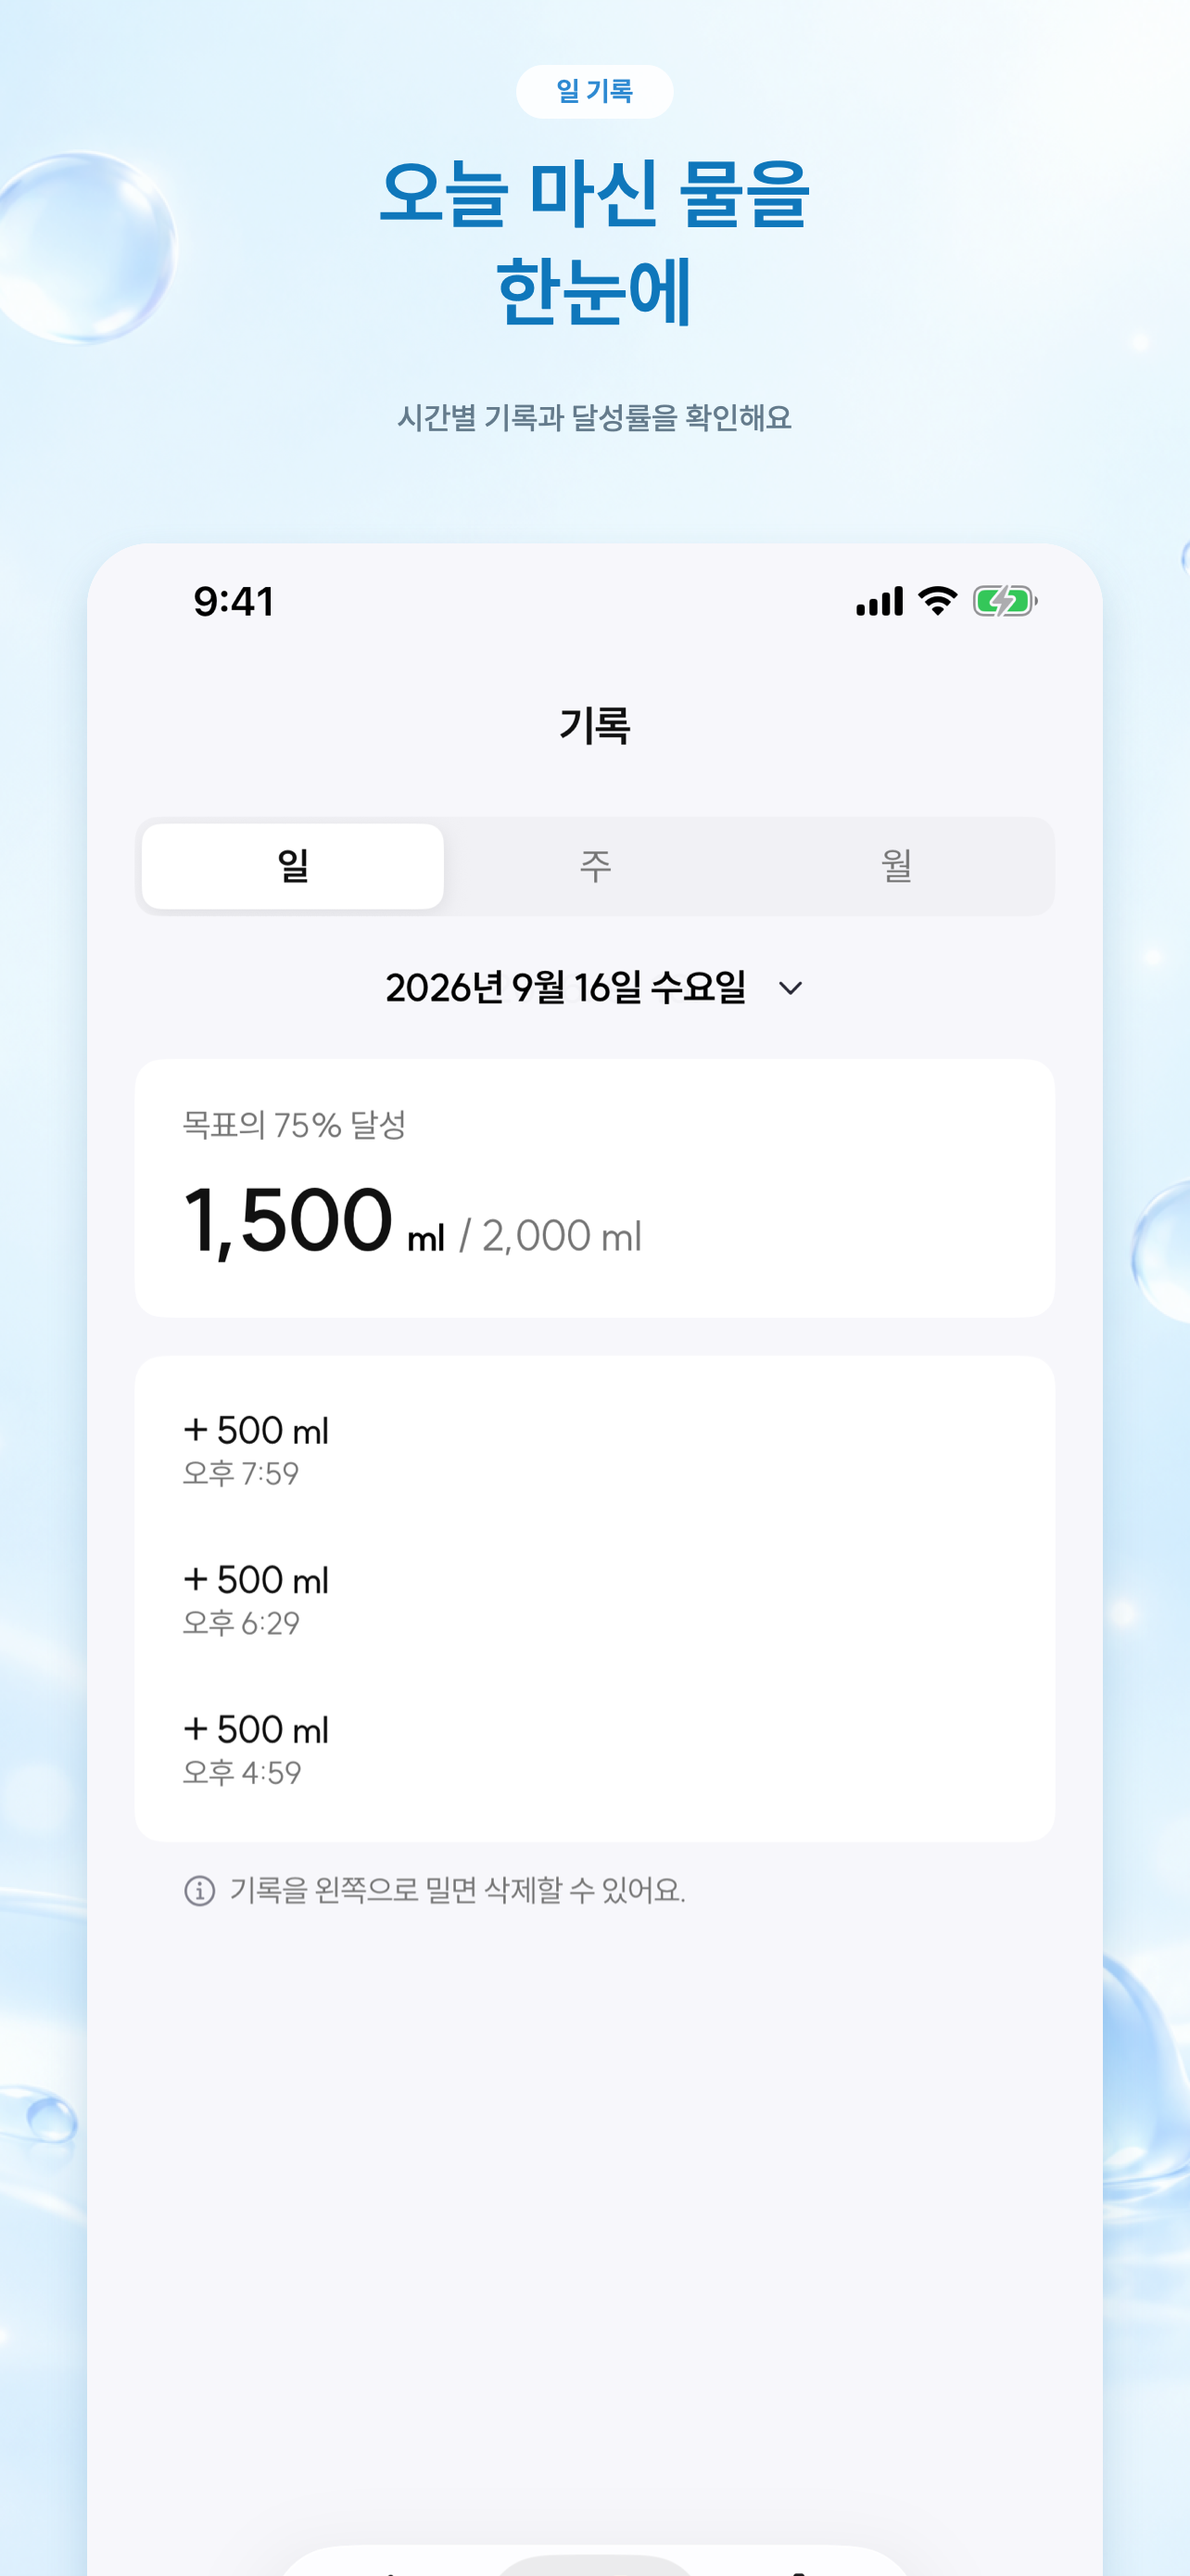
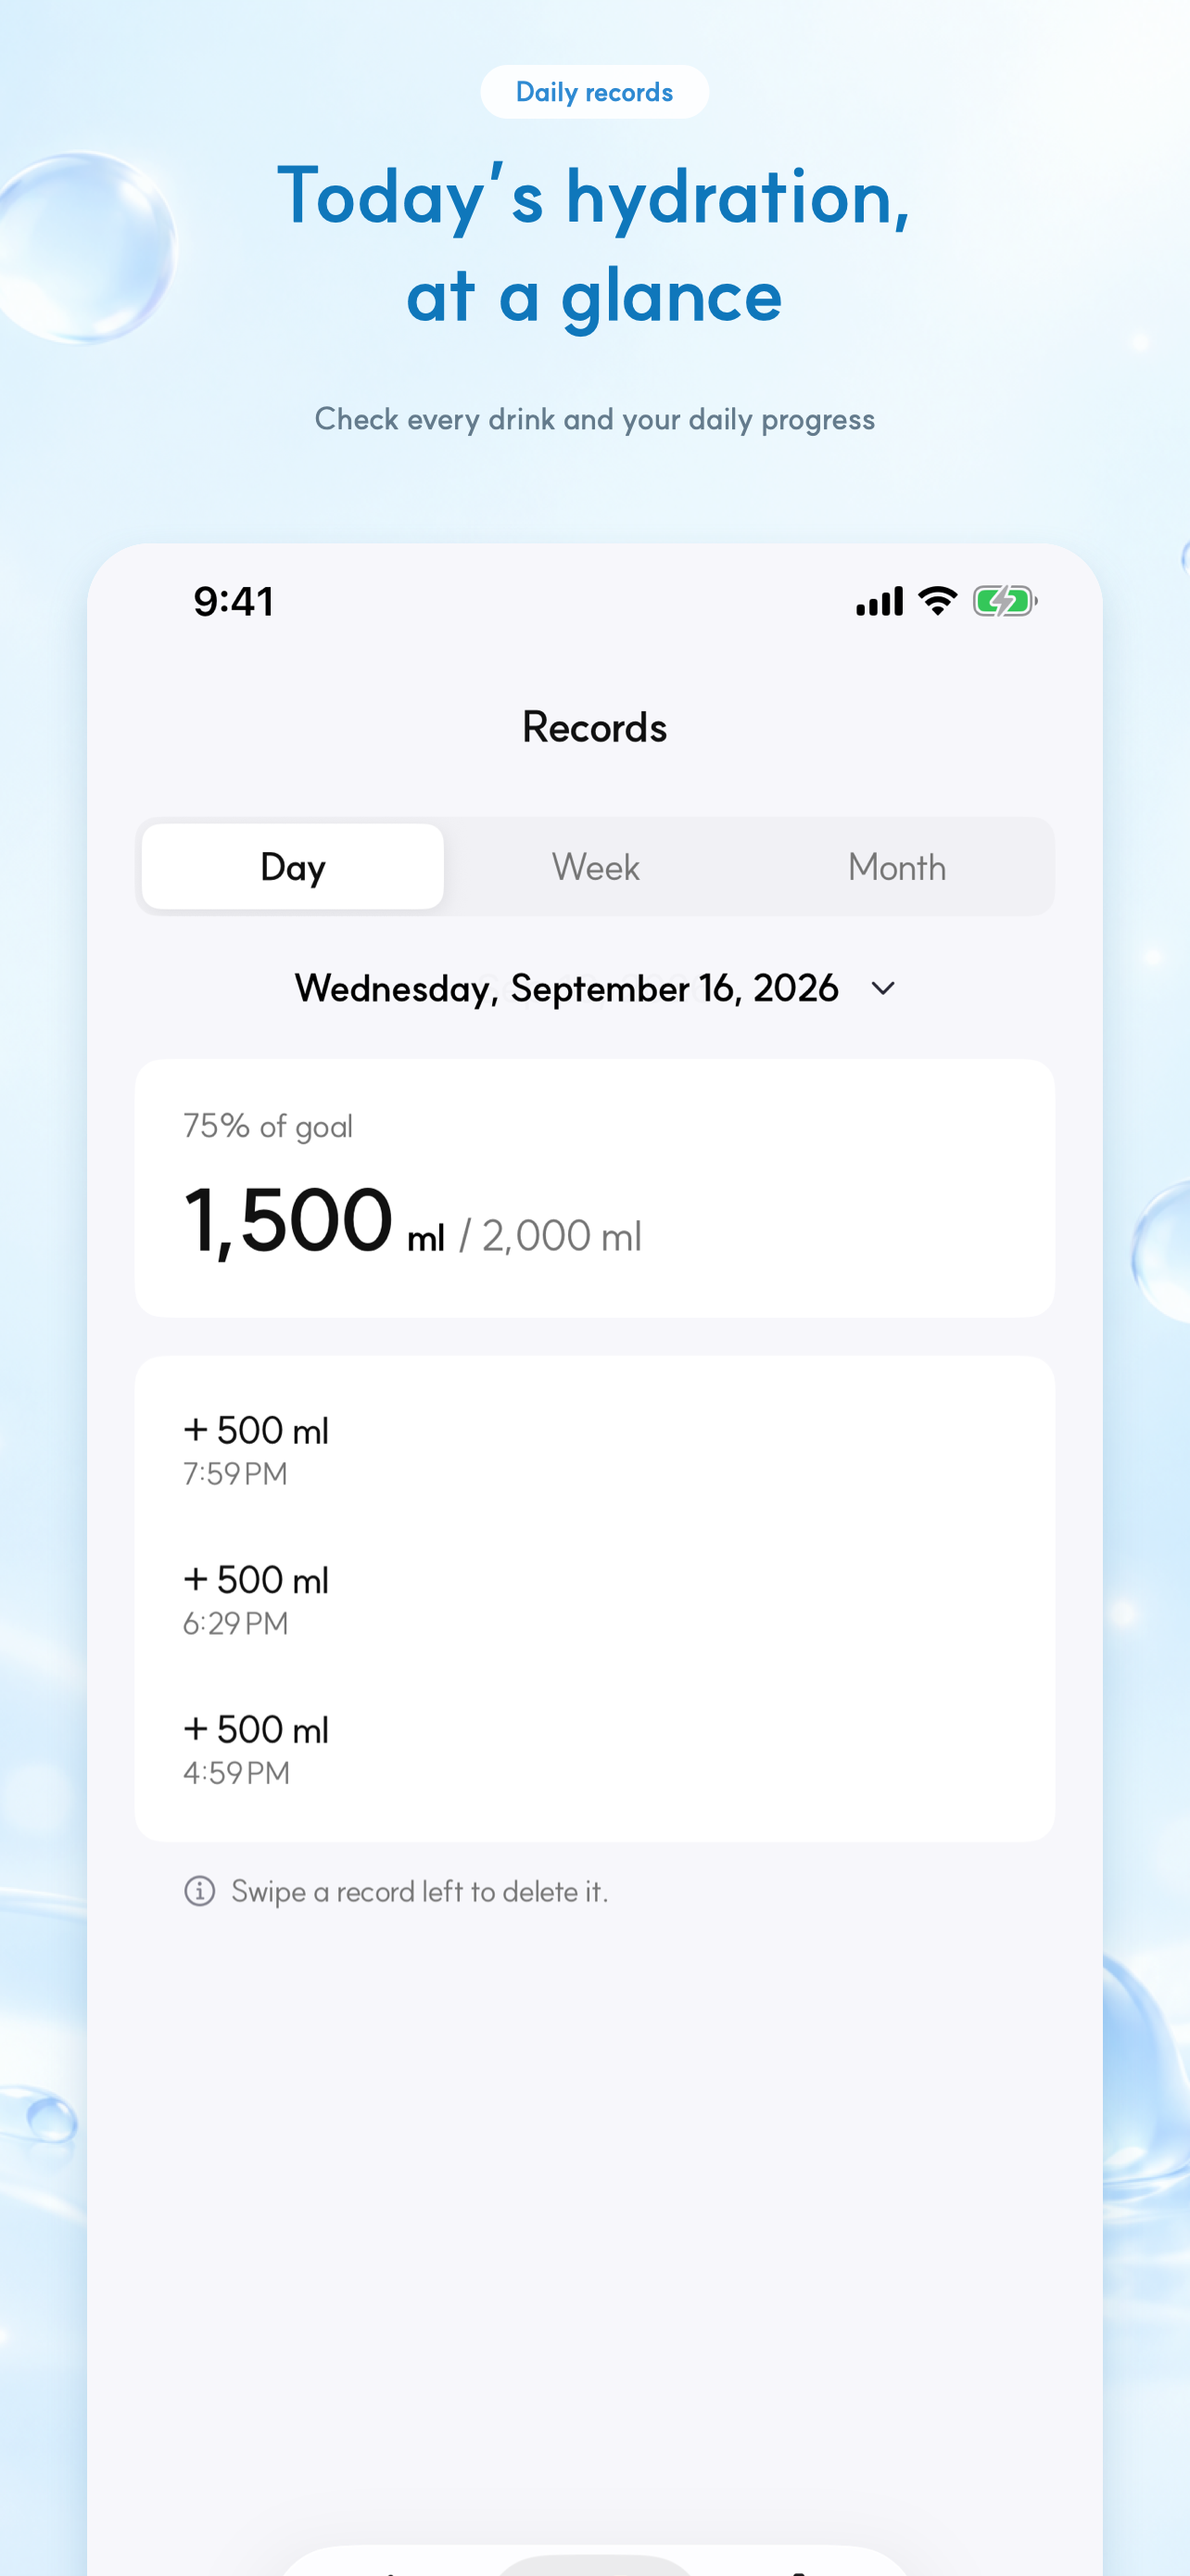
fix: publish Water Jelly page in English

diff --git a/waterjelly/index.html b/waterjelly/index.html
@@ -1,19 +1,19 @@
 <!DOCTYPE html>
-<html lang="ko">
+<html lang="en">
 <head>
   <meta charset="UTF-8">
   <meta name="viewport" content="width=device-width, initial-scale=1.0">
-  <meta name="description" content="워터젤리는 귀여운 젤리와 함께 오늘 마신 물을 빠르게 기록하고, 일·주·월 단위로 돌아보는 iPhone 물 기록 앱입니다.">
-  <meta name="keywords" content="워터젤리, 물마시기, 물기록, 수분기록, 물알림, 건강습관, 물 위젯">
+  <meta name="description" content="Water Jelly is an iPhone water tracker that helps you log each drink in a tap, review daily, weekly, and monthly trends, and build a gentle hydration habit.">
+  <meta name="keywords" content="Water Jelly, water tracker, hydration tracker, water reminder, drink water, daily water, water widget">
   <meta name="theme-color" content="#EAF7FF">
   <meta property="og:type" content="website">
-  <meta property="og:title" content="워터젤리 — 젤리와 가볍게 채우는 오늘의 물">
-  <meta property="og:description" content="빠른 기록, 부드러운 응원, 일·주·월 기록으로 내 수분 습관을 부담 없이 이어가세요.">
+  <meta property="og:title" content="Water Jelly — A gentle water habit with a little jelly">
+  <meta property="og:description" content="Quick entries, gentle encouragement, and daily, weekly, and monthly records for a hydration routine that fits your day.">
   <meta property="og:url" content="https://lucidmaj7.github.io/waterjelly/">
   <meta name="twitter:card" content="summary">
-  <meta name="twitter:title" content="워터젤리 — 젤리와 가볍게 채우는 오늘의 물">
-  <meta name="twitter:description" content="빠른 기록, 부드러운 응원, 일·주·월 기록으로 내 수분 습관을 부담 없이 이어가세요.">
-  <title>워터젤리 — 물 마시기 기록 앱</title>
+  <meta name="twitter:title" content="Water Jelly — A gentle water habit with a little jelly">
+  <meta name="twitter:description" content="Quick entries, gentle encouragement, and daily, weekly, and monthly records for a hydration routine that fits your day.">
+  <title>Water Jelly — Water Tracker for iPhone</title>
   <link rel="canonical" href="https://lucidmaj7.github.io/waterjelly/">
   <link rel="stylesheet" href="../css/base.css">
   <link rel="stylesheet" href="../css/components.css">
@@ -23,13 +23,13 @@
 <body class="waterjelly-page">
 
   <header>
-    <nav class="site-nav waterjelly-nav" aria-label="주요 탐색">
+    <nav class="site-nav waterjelly-nav" aria-label="Main navigation">
       <div class="site-nav__inner">
         <a href="../index.html" class="site-nav__back">lucidmaj7</a>
         <div class="waterjelly-nav__right">
-          <a href="#features" class="site-nav__link">기능</a>
-          <a href="#screens" class="site-nav__link">앱 화면</a>
-          <span class="site-nav__app-name">워터젤리</span>
+          <a href="#features" class="site-nav__link">Features</a>
+          <a href="#screens" class="site-nav__link">Screens</a>
+          <span class="site-nav__app-name">Water Jelly</span>
         </div>
       </div>
     </nav>
@@ -43,41 +43,41 @@
             <img src="images/icon.png" alt="" width="64" height="64">
             <span>Water Jelly for iPhone</span>
           </div>
-          <p class="waterjelly-eyebrow">매일의 수분 습관</p>
-          <h1 id="waterjelly-title">오늘의 물,<br><em>젤리와 가볍게.</em></h1>
+          <p class="waterjelly-eyebrow">A gentler hydration habit</p>
+          <h1 id="waterjelly-title">Today's water,<br><em>lighter with Jelly.</em></h1>
           <p class="waterjelly-hero__desc">
-            마신 물을 한 번의 탭으로 기록하고, 작은 젤리의 응원과 함께
-            나에게 맞는 편안한 물 마시기 리듬을 만들어 보세요.
+            Log each drink in a tap and build a comfortable hydration rhythm
+            with a little encouragement from Jelly.
           </p>
           <div class="waterjelly-hero__actions">
-            <a href="#screens" class="waterjelly-button waterjelly-button--primary">앱 화면 보기</a>
-            <span class="waterjelly-release">App Store 출시 준비 중</span>
+            <a href="#screens" class="waterjelly-button waterjelly-button--primary">See inside the app</a>
+            <span class="waterjelly-release">Coming soon on the App Store</span>
           </div>
         </div>
 
         <div class="waterjelly-hero__visual reveal">
           <div class="waterjelly-hero__halo" aria-hidden="true"></div>
-          <img class="waterjelly-hero__mascot" src="images/jelly-happy.png" alt="활짝 웃고 있는 파란색 워터젤리 캐릭터" width="322" height="254">
+          <img class="waterjelly-hero__mascot" src="images/jelly-happy.png" alt="A cheerful blue Water Jelly character" width="322" height="254">
           <figure class="waterjelly-phone-card">
-            <img src="images/01-home.png" alt="워터젤리 홈 화면. 오늘 마신 물 1,500ml와 빠른 기록 버튼, 젤리 캐릭터가 보입니다." width="1284" height="2778" fetchpriority="high">
+            <img src="images/01-home.png" alt="Water Jelly home screen showing 1,500ml logged, quick-entry buttons, and the Jelly character." width="1284" height="2778" fetchpriority="high">
           </figure>
         </div>
       </div>
     </section>
 
-    <section class="waterjelly-proof" aria-label="워터젤리 핵심 기능">
+    <section class="waterjelly-proof" aria-label="Water Jelly highlights">
       <div class="waterjelly-proof__inner">
         <div class="waterjelly-proof__item reveal">
-          <strong>한 번의 탭</strong>
-          <span>자주 마시는 양 빠른 기록</span>
+          <strong>One tap</strong>
+          <span>Log your usual amount instantly</span>
         </div>
         <div class="waterjelly-proof__item reveal">
-          <strong>일 · 주 · 월</strong>
-          <span>내 수분 습관을 한눈에</span>
+          <strong>Day · Week · Month</strong>
+          <span>See your hydration rhythm</span>
         </div>
         <div class="waterjelly-proof__item reveal">
-          <strong>알림 · 위젯</strong>
-          <span>생활 리듬에 맞춘 가벼운 도움</span>
+          <strong>Reminders · Widget</strong>
+          <span>Gentle help that fits your day</span>
         </div>
       </div>
     </section>
@@ -86,25 +86,25 @@
       <div class="waterjelly-section">
         <header class="waterjelly-section__header reveal">
           <p class="waterjelly-section__kicker">Simple by design</p>
-          <h2 id="features-title">기록은 빠르게,<br>습관은 자연스럽게.</h2>
-          <p>복잡한 입력 없이 바로 기록하고, 필요한 순간에만 살펴볼 수 있도록 만들었습니다.</p>
+          <h2 id="features-title">Quick to log.<br>Easy to keep.</h2>
+          <p>Record a drink without a complicated form, then look back only when you need to.</p>
         </header>
 
         <div class="waterjelly-feature-grid">
           <article class="waterjelly-feature-card reveal">
             <span class="waterjelly-feature-card__number">01</span>
-            <h3>바로 더하는 빠른 기록</h3>
-            <p>50ml, 100ml, 200ml, 500ml 버튼으로 기록하고, 원하는 양은 직접 입력할 수 있어요.</p>
+            <h3>Log in one tap</h3>
+            <p>Add 50ml, 100ml, 200ml, or 500ml instantly, or enter any amount yourself.</p>
           </article>
           <article class="waterjelly-feature-card reveal">
             <span class="waterjelly-feature-card__number">02</span>
-            <h3>일·주·월 기록</h3>
-            <p>오늘의 기록부터 주간 평균, 월간 흐름과 목표 달성일까지 차분하게 돌아볼 수 있어요.</p>
+            <h3>Daily, weekly, monthly</h3>
+            <p>Review today's entries, weekly averages, monthly trends, and the days you reached your goal.</p>
           </article>
           <article class="waterjelly-feature-card reveal">
             <span class="waterjelly-feature-card__number">03</span>
-            <h3>내 생활에 맞춘 도움</h3>
-            <p>요일과 시간대별 알림, 홈 화면 위젯, Apple 건강 연결로 기록을 자연스럽게 이어가요.</p>
+            <h3>Built around your day</h3>
+            <p>Keep going naturally with flexible reminders, a Home Screen widget, and optional Apple Health sync.</p>
           </article>
         </div>
       </div>
@@ -113,14 +113,14 @@
     <section class="waterjelly-story" aria-labelledby="story-title">
       <div class="waterjelly-story__inner">
         <div class="waterjelly-story__art reveal">
-          <img src="images/jelly-happy.png" alt="기뻐하는 워터젤리 캐릭터" width="322" height="254" loading="lazy">
+          <img src="images/jelly-happy.png" alt="A happy Water Jelly character" width="322" height="254" loading="lazy">
         </div>
         <div class="waterjelly-story__copy reveal">
           <p class="waterjelly-section__kicker">A little encouragement</p>
-          <h2 id="story-title">물을 마실 때마다<br>젤리가 반응해요.</h2>
+          <h2 id="story-title">Jelly reacts<br>to every drink.</h2>
           <p>
-            숫자만 쌓이는 기록 대신, 마신 순간마다 젤리가 작은 표정과 말로 응원합니다.
-            부담을 주지 않고 다시 물 한 잔을 떠올리게 하는 친구예요.
+            Instead of adding another number to a list, each drink gets a small reaction and a few words from Jelly.
+            A friendly nudge to remember your next glass, without pressure.
           </p>
         </div>
       </div>
@@ -130,25 +130,25 @@
       <div class="waterjelly-section">
         <header class="waterjelly-section__header reveal">
           <p class="waterjelly-section__kicker">Inside the app</p>
-          <h2 id="screens-title">오늘부터 한 달까지,<br>한눈에 이어지는 기록.</h2>
+          <h2 id="screens-title">From today to the whole month,<br>one connected view.</h2>
         </header>
 
         <div class="waterjelly-screen-grid">
           <figure class="waterjelly-screen-card reveal">
-            <img src="images/02-day.png" alt="워터젤리 일 기록 화면" width="1284" height="2778" loading="lazy">
-            <figcaption><span>01</span> 오늘의 기록과 달성률</figcaption>
+            <img src="images/02-day.png" alt="Water Jelly daily records screen" width="1284" height="2778" loading="lazy">
+            <figcaption><span>01</span> Today's entries and goal progress</figcaption>
           </figure>
           <figure class="waterjelly-screen-card reveal">
-            <img src="images/03-week.png" alt="워터젤리 주 기록 화면" width="1284" height="2778" loading="lazy">
-            <figcaption><span>02</span> 요일별 섭취량과 주간 평균</figcaption>
+            <img src="images/03-week.png" alt="Water Jelly weekly records screen" width="1284" height="2778" loading="lazy">
+            <figcaption><span>02</span> Daily intake and weekly average</figcaption>
           </figure>
           <figure class="waterjelly-screen-card reveal">
-            <img src="images/04-month.png" alt="워터젤리 월 기록 화면" width="1284" height="2778" loading="lazy">
-            <figcaption><span>03</span> 월간 흐름과 젤리 캘린더</figcaption>
+            <img src="images/04-month.png" alt="Water Jelly monthly records screen" width="1284" height="2778" loading="lazy">
+            <figcaption><span>03</span> Monthly trends and Jelly calendar</figcaption>
           </figure>
           <figure class="waterjelly-screen-card reveal">
-            <img src="images/05-settings.png" alt="워터젤리 설정 화면" width="1284" height="2778" loading="lazy">
-            <figcaption><span>04</span> 알림·목표·Apple 건강 설정</figcaption>
+            <img src="images/05-settings.png" alt="Water Jelly settings screen" width="1284" height="2778" loading="lazy">
+            <figcaption><span>04</span> Reminders, goals, and Apple Health</figcaption>
           </figure>
         </div>
       </div>
@@ -156,11 +156,11 @@
 
     <section class="waterjelly-cta" aria-labelledby="cta-title">
       <div class="waterjelly-cta__inner reveal">
-        <img src="images/icon.png" alt="워터젤리 앱 아이콘" width="112" height="112" loading="lazy">
+        <img src="images/icon.png" alt="Water Jelly app icon" width="112" height="112" loading="lazy">
         <p class="waterjelly-section__kicker">Water Jelly</p>
-        <h2 id="cta-title">물 마시는 시간이<br>조금 더 가벼워지도록.</h2>
-        <p>워터젤리는 곧 App Store에서 만날 수 있습니다.</p>
-        <span class="waterjelly-button waterjelly-button--waiting" aria-label="App Store 출시 준비 중">출시 준비 중</span>
+        <h2 id="cta-title">Make every drink<br>feel a little lighter.</h2>
+        <p>Water Jelly is coming soon to the App Store.</p>
+        <span class="waterjelly-button waterjelly-button--waiting" aria-label="Coming soon on the App Store">Coming soon</span>
       </div>
     </section>
   </main>
@@ -168,9 +168,9 @@
   <footer class="site-footer waterjelly-footer">
     <div class="site-footer__inner waterjelly-footer__inner">
       <p>&copy; 2026 lucidmaj7</p>
-      <nav aria-label="하단 링크">
+      <nav aria-label="Footer links">
         <a href="privacy-en.html" class="site-footer__link">Privacy Policy</a>
-        <a href="mailto:dev.lucidmaj7@gmail.com" class="site-footer__link">Support</a>
+        <a href="https://docs.google.com/forms/d/e/1FAIpQLSfUtO-jReeFrbQ6bBdDyqD_oD5UfT75gS0Z0OXCbtzlIBw2yQ/viewform" class="site-footer__link" target="_blank" rel="noopener noreferrer">Support &amp; Feedback</a>
         <a href="../index.html" class="site-footer__link">More apps</a>
       </nav>
     </div>

diff --git a/waterjelly/privacy-en.html b/waterjelly/privacy-en.html
@@ -243,7 +243,7 @@
       <p>&copy; 2026 lucidmaj7</p>
       <nav aria-label="Footer links">
         <a href="index.html" class="site-footer__link">Water Jelly</a>
-        <a href="mailto:dev.lucidmaj7@gmail.com" class="site-footer__link">Support</a>
+        <a href="https://docs.google.com/forms/d/e/1FAIpQLSfUtO-jReeFrbQ6bBdDyqD_oD5UfT75gS0Z0OXCbtzlIBw2yQ/viewform" class="site-footer__link" target="_blank" rel="noopener noreferrer">Support &amp; Feedback</a>
       </nav>
     </div>
   </footer>
